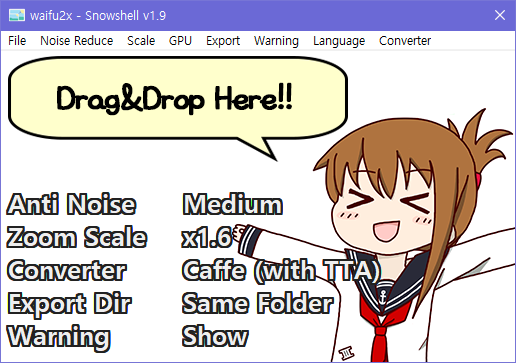
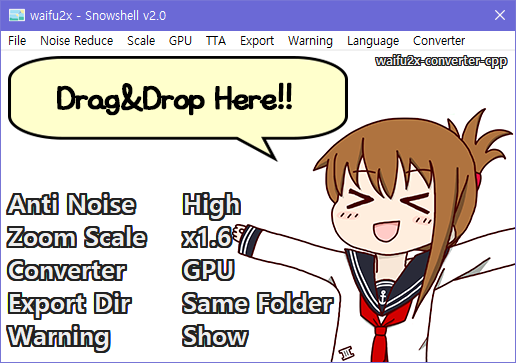
print current converter

diff --git a/waifu2x_snowshell/Main.cpp b/waifu2x_snowshell/Main.cpp
@@ -52,7 +52,7 @@ int APIENTRY wWinMain(HINSTANCE hInstance, HINSTANCE hPrevInstance, PWSTR lpCmdL
 
 LRESULT CALLBACK WndProc(HWND hWnd, UINT uMsg, WPARAM wParam, LPARAM lParam) {
 	static HMENU hMenu;
-	static HFONT hFont;
+	static HFONT hFont, hSFont;
 	static HBITMAP hBGBitmap;
 	static wstring *UIText[5];
 	static wstring *UITitleText[5];
@@ -81,6 +81,7 @@ LRESULT CALLBACK WndProc(HWND hWnd, UINT uMsg, WPARAM wParam, LPARAM lParam) {
 		SnowSetting::getTexts(&UITitleText, &UIText);
 		hMenu = LoadMenu(g_hInst, MAKEINTRESOURCE(IDR_MENU1));
 		hFont = CreateFont(35, 0, 0, 0, FW_BOLD, 0, 0, 0, HANGEUL_CHARSET, OUT_OUTLINE_PRECIS, CLIP_STROKE_PRECIS, PROOF_QUALITY, VARIABLE_PITCH | FF_MODERN, L"Malgun Gothic");
+		hSFont = CreateFont(15, 0, 0, 0, FW_BOLD, 0, 0, 0, HANGEUL_CHARSET, OUT_OUTLINE_PRECIS, CLIP_STROKE_PRECIS, PROOF_QUALITY, VARIABLE_PITCH | FF_MODERN, L"Malgun Gothic");
 		SetMenu(hWnd, hMenu);
 		SnowSetting::loadMenuString(hMenu);
 		LangName = SnowSetting::getLangName();
@@ -254,7 +255,6 @@ LRESULT CALLBACK WndProc(HWND hWnd, UINT uMsg, WPARAM wParam, LPARAM lParam) {
 			return TRUE;
 		case ID_MENU_CONVERTER_CPP:
 		case ID_MENU_CONVERTER_CAFFE:
-			//TODO: set Action
 			SnowSetting::checkConverterNum(hMenu, LOWORD(wParam) - ID_MENU_CONVERTER_CPP);
 			SnowSetting::getTexts(&UITitleText, &UIText);
 			SetMenu(hWnd, NULL);
@@ -293,6 +293,15 @@ LRESULT CALLBACK WndProc(HWND hWnd, UINT uMsg, WPARAM wParam, LPARAM lParam) {
 
 		for (int i = 0; i < 5; i++)
 			prtTextBorder(hMemDC, (int)(INT_TEXT_TAB * 12.5 + 7), 133 + 33 * i, UIText[i]->c_str(), (int)UIText[i]->length(), RGB(0x21, 0x21, 0x21), 2);
+
+		SelectObject(hMemDC, hOldFont);
+		hOldFont = (HFONT)SelectObject(hMemDC, hSFont);
+		SetTextColor(hMemDC, RGB(0xef, 0xef, 0xef));
+
+		if(SnowSetting::CurrentConverter == &SnowSetting::CONVERTER_CPP)
+			prtTextBorder(hMemDC, 375, 2, L"waifu2x-converter-cpp", 21, RGB(0x21, 0x21, 0x21), 1);
+		else
+			prtTextBorder(hMemDC, 430, 2, L"waifu2x-caffe", 13, RGB(0x21, 0x21, 0x21), 1);
 
 		BitBlt(hdc, 0, 0, rt.right, rt.bottom, hMemDC, 0, 0, SRCCOPY);
 
